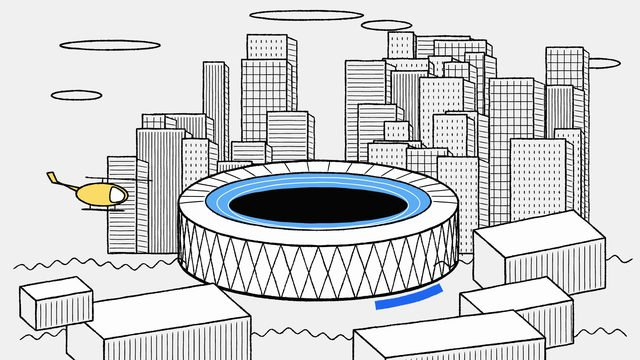
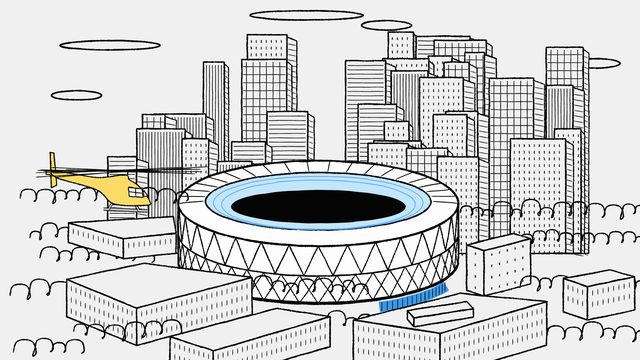
feat: 도시 설정 샷의 헬리콥터·전경·경기장 외벽을 원본 형태로 다시 그림 (#13)
- 헬리콥터: 타원 몸통에 선 꼬리이던 것을 꼬리 붐과 객실이 한 덩어리인 실루엣, 꼬리 날개와 수평 안정판, 네 칸 옆창, 회색 스키드, 그림마다 다시 뽑는 부채꼴 로터 선으로 바꿨다. 원본 객실에 그려진 브랜드 표식과 글자는 넣지 않았다(공개 저장소).
- 전경: 한 가지 기울기의 상자 다섯 개를 원본 배치의 블록 일곱 개로 바꿨다. 지붕 네 점을 그대로 받는 block()으로 일반화했다: 기존 roof()는 기울기가 고정이라 원본의 지붕 모양을 넣을 수 없었다.
- 나무: 물결선 세 줄을 건물 사이를 메우는 둥근 수관 줄 열네 개로 바꿨다. 원본은 빈틈마다 나무로 메워 화면이 빽빽하다.
- 경기장 외벽을 위쪽 큰 지그재그와 아래쪽 X의 두 단으로 나누고, 관중석을 옅은 하늘색에 고리선으로, 발치의 띠를 로열블루에서 밝은 파랑으로 바꿨다. 로열블루는 스미어와 태그라인 전용이라는 STYLE.md 원칙과도 맞춘다.
- 뒤쪽 고층 건물은 그대로 시드 생성이다.

Claude-Session: https://claude.ai/code/session_01SxpfC35DvvVg9RbvPHCrGA

Changed region(s): [[0.0, 0.4278, 1.0, 1.0]]

diff --git a/IBM/scenes/establish/city-stadium-flyin.html b/IBM/scenes/establish/city-stadium-flyin.html
@@ -7,7 +7,7 @@
 <script src="../../kit/ink.js"></script>
 <script>
 /* 화면을 가득 채운 흑백 선화 도시 한가운데 경기장이 있고, 노란 헬리콥터 한 대가 왼쪽에서 크게 휘어 들어와 경기장 옆에 멈춰 뜬다. 전달하는 생각: 이제 벌어질 일의 장소를 한 장으로 알린다.
-   Motion notes: 1.9 s, the drawing never moves and is far denser than any other family: line widths 1.5-5 px mixed, windows and trusses as texture, almost no fills. Colour only in two places, the yellow craft and the blue seating band (plus one blue strip at the stadium's foot). The craft is the one moving thing, on twos: nothing for the first 0.33 s, then it crosses right in front of the lens 4x too large (the first drawing stretched 1.4x as a smear), shrinks away, stands on its nose for one drawing as it turns, and is hovering by 0.83 s; after that only the rotor line flips each drawing and the body drifts 1 px per drawing. Buildings are generated from a seed, so the skyline is a stand-in for the reference's hand-drawn city, not a copy of it. */
+   Motion notes: 1.9 s, the drawing never moves and is far denser than any other family: line widths 1.5-5 px mixed, windows and trusses as texture, almost no fills. Colour only in two places, the yellow craft and the pale blue seating (plus one bright strip at the stadium's foot). The craft is the one moving thing, on twos: nothing for the first 0.33 s, then it crosses right in front of the lens 4x too large (the first drawing stretched 1.4x as a smear), shrinks away, stands on its nose for one drawing as it turns, and is hovering by 0.83 s; after that only the rotor line flips each drawing and the body drifts 1 px per drawing. The towers are generated from a seed, so the skyline is a stand-in for the reference's hand-drawn city, not a copy of it; the stadium, the foreground blocks, the treetop rows and the craft follow the reference's layout and shapes. The craft's painted brand mark and lettering are left out. */
 const { lerp, rng, kf } = MG;
 const C = IB.C;
 
@@ -33,48 +33,85 @@ function tower(ctx, b) {
 }
 
 function stadium(ctx) {
-  const cx = 955, top = 610, bot = 770, rx = 420, ry = 128;
+  // a squat bowl: roof ring on top, an upper band of big zigzags and a lower band of crosses, one bright strip at its foot
+  const cx = 955, top = 610, mid = 700, bot = 780, rx = 420, ry = 128;
   const arc = (y, a0, a1, n = 26) => IB.ellipse(cx, y, rx, ry, n, a0, a1);
-  // wall: the lower halves of the roof ellipse and the foot ellipse, joined
   IB.ink(ctx, arc(top, 0, Math.PI).concat(arc(bot, Math.PI, 0)), { closed: true, fill: C.paper, w: 4, seed: 300 });
-  const up = arc(top, 0.08, Math.PI - 0.08, 22), lo = arc(bot + 4, 0.08, Math.PI - 0.08, 22);
-  for (let i = 0; i < up.length - 1; i++) { IB.ink(ctx, [up[i], lo[i + 1]], { w: 2.4, seed: 310 + i, smooth: false }); IB.ink(ctx, [up[i + 1], lo[i]], { w: 2.4, seed: 340 + i, smooth: false }); }
-  IB.ink(ctx, arc(bot + 30, 0.5, 1.15, 8), { w: 26, color: C.royal, seed: 301, taper: false });          // blue strip at the foot
-  IB.ink(ctx, arc(bot + 4, 0.02, Math.PI - 0.02), { w: 4, seed: 302 });
-  // roof ring, seating band, the dark bowl
-  IB.oval(ctx, cx, top, rx, ry, { fill: C.paper, w: 5, seed: 303, n: 30 });
-  IB.oval(ctx, cx, top - 6, 338, 86, { fill: C.blue, w: 3.5, seed: 304, n: 26 });
-  for (const k of [0.9, 0.8]) IB.oval(ctx, cx, top - 6 + (1 - k) * 60, 338 * k, 86 * k, { w: 2, color: C.paper, seed: 305 + k, n: 24 });
-  IB.oval(ctx, cx, top + 6, 268, 54, { fill: C.ink, w: 0, n: 24 });
+  const up = arc(top, 0.1, Math.PI - 0.1, 14), md = arc(mid, 0.1, Math.PI - 0.1, 14), md2 = arc(mid, 0.1, Math.PI - 0.1, 22), lo = arc(bot + 2, 0.1, Math.PI - 0.1, 22);
+  for (let i = 0; i < up.length - 1; i++) { const m = [(md[i][0] + md[i + 1][0]) / 2, (md[i][1] + md[i + 1][1]) / 2]; IB.ink(ctx, [up[i], m, up[i + 1]], { w: 2.6, seed: 310 + i, smooth: false }); }
+  for (let i = 0; i < md2.length - 1; i++) { IB.ink(ctx, [md2[i], lo[i + 1]], { w: 2.2, seed: 330 + i, smooth: false }); IB.ink(ctx, [md2[i + 1], lo[i]], { w: 2.2, seed: 360 + i, smooth: false }); }
+  IB.ink(ctx, arc(mid, 0.04, Math.PI - 0.04), { w: 3.2, seed: 301 });
+  IB.ink(ctx, arc(bot + 26, 0.42, 1.12, 8), { w: 30, color: '#3b98e6', seed: 302, taper: false, grain: 0 });
+  for (let i = 0; i < 16; i++) { const a = 0.44 + (i / 15) * 0.66; IB.seg(ctx, cx + Math.cos(a) * rx, bot + 12 + Math.sin(a) * ry, cx + Math.cos(a) * rx, bot + 40 + Math.sin(a) * ry, { w: 1.5, wob: 0, seed: 380 + i }); }
+  IB.ink(ctx, arc(bot + 4, 0.02, Math.PI - 0.02), { w: 4, seed: 303 });
+  // roof ring, pale seating with ring lines, the dark bowl
+  IB.oval(ctx, cx, top, rx, ry, { fill: C.paper, w: 5, seed: 304, n: 30 });
+  IB.oval(ctx, cx, top - 6, 338, 86, { fill: C.sky, w: 3.5, seed: 305, n: 26 });
+  for (const k of [0.93, 0.86]) IB.oval(ctx, cx, top - 6 + (1 - k) * 70, 338 * k, 86 * k, { w: 2, color: C.blue, seed: 306 + k, n: 24, grain: 0 });
+  IB.oval(ctx, cx, top + 10, 262, 50, { fill: C.ink, w: 0, n: 24 });
   for (let i = 0; i < 20; i++) { const a = Math.PI + (i / 19) * Math.PI, p = [cx + Math.cos(a) * rx, top + Math.sin(a) * ry], q = [cx + Math.cos(a) * 344, top - 6 + Math.sin(a) * 90]; IB.ink(ctx, [p, q], { w: 2, seed: 370 + i, smooth: false }); }
 }
 
-function foreground(ctx) {
-  const roof = (x, y, w, h, d, seed) => {
-    IB.ink(ctx, [[x, y], [x + w, y - d], [x + w + d * 1.6, y + d * 0.4], [x + d * 1.6, y + d * 1.4]], { closed: true, smooth: false, fill: C.paper, w: 3.5, seed });
-    IB.ink(ctx, [[x, y], [x + d * 1.6, y + d * 1.4], [x + d * 1.6, y + d * 1.4 + h], [x, y + h]], { closed: true, smooth: false, fill: C.bg, w: 3.5, seed: seed + 1 });
-    IB.ink(ctx, [[x + d * 1.6, y + d * 1.4], [x + w + d * 1.6, y + d * 0.4], [x + w + d * 1.6, y + d * 0.4 + h], [x + d * 1.6, y + d * 1.4 + h]], { closed: true, smooth: false, fill: C.bg, w: 3.5, seed: seed + 2 });
-    for (let k = 14; k < w; k += 16) IB.seg(ctx, x + d * 1.6 + k, y + d * 1.4 - k * (d / w) + 12, x + d * 1.6 + k, y + d * 1.4 - k * (d / w) + h - 6, { w: 1.6, wob: 0.3, seed: seed + k });
-  };
-  const trees = (x0, x1, y, seed) => { const pts = []; for (let x = x0, i = 0; x <= x1; x += 26, i++) pts.push([x, y + (i % 2 ? -16 : 0) + Math.sin(x * 0.02) * 10]); IB.ink(ctx, pts, { w: 2.6, seed }); };
-  trees(40, 560, 800, 500); trees(1300, 1900, 790, 501); trees(60, 1900, 1010, 502);
-  roof(1420, 690, 300, 150, 60, 520);
-  roof(1380, 880, 260, 130, 50, 530);
-  roof(200, 920, 440, 140, 70, 540);
-  roof(1060, 990, 480, 120, 60, 550);
-  roof(60, 860, 170, 90, 30, 560);
+/* A row of treetops: a run of overlapping bumps with a curl at each join, the way the reference fills every gap between buildings. */
+function trees(ctx, x0, x1, y, seed, r0 = 22) {
+  const r = rng(seed), pts = [];
+  let x = x0;
+  while (x < x1) {
+    const rad = r0 * (0.7 + r() * 0.7), dy = (r() - 0.5) * r0 * 0.8;
+    pts.push([x, y + dy], [x + rad * 0.25, y + dy - rad * 0.9], [x + rad, y + dy - rad * 1.15], [x + rad * 1.75, y + dy - rad * 0.9], [x + rad * 2, y + dy], [x + rad * 1.7, y + dy + rad * 0.3]);
+    x += rad * 1.9;
+  }
+  IB.ink(ctx, pts, { w: 2.8, seed });
 }
 
-function heli(ctx, x, y, s, rot, facing, flip) {
+/* A flat-roofed block seen from above: the roof is the four points given (back-left, back-right, front-right, front-left), the two near faces drop h px and carry short vertical window dashes. */
+function block(ctx, q, h, seed, dots = false) {
+  const down = (p) => [p[0], p[1] + h];
+  IB.ink(ctx, [q[0], q[3], down(q[3]), down(q[0])], { closed: true, smooth: false, fill: C.bg, w: 3.2, seed: seed + 1 });
+  IB.ink(ctx, [q[3], q[2], down(q[2]), down(q[3])], { closed: true, smooth: false, fill: C.bg, w: 3.2, seed: seed + 2 });
+  IB.ink(ctx, q, { closed: true, smooth: false, fill: C.bg, w: 3.2, seed });
+  for (const [a, b] of [[q[0], q[3]], [q[3], q[2]]]) {
+    const len = Math.hypot(b[0] - a[0], b[1] - a[1]), n = Math.floor(len / (dots ? 22 : 15));
+    for (let i = 1; i < n; i++) for (let row = 0; row < Math.floor(h / 34); row++) {
+      const u = i / n, x = lerp(a[0], b[0], u), y = lerp(a[1], b[1], u) + 14 + row * 34;
+      IB.seg(ctx, x, y, x, y + (dots ? 7 : 16), { w: dots ? 3 : 1.6, wob: 0, seed: seed + i * 7 + row });
+    }
+  }
+}
+
+function foreground(ctx) {
+  trees(ctx, 60, 540, 600, 500); trees(ctx, 1380, 1920, 640, 501); trees(ctx, 1560, 1920, 720, 502, 18);
+  block(ctx, [[1400, 735], [1540, 700], [1592, 716], [1452, 752]], 136, 510, true);
+  trees(ctx, 90, 300, 706, 503); trees(ctx, 120, 420, 770, 504);
+  block(ctx, [[205, 668], [520, 650], [528, 700], [370, 716]], 60, 520);
+  trees(ctx, 30, 230, 880, 505, 26); trees(ctx, 760, 1100, 868, 506); trees(ctx, 1560, 1920, 860, 507);
+  block(ctx, [[1690, 835], [1830, 810], [1904, 830], [1762, 860]], 100, 530);
+  block(ctx, [[200, 838], [432, 790], [756, 832], [410, 924]], 112, 540);
+  trees(ctx, 220, 520, 1004, 508, 24); trees(ctx, 980, 1100, 968, 509);
+  block(ctx, [[1060, 960], [1380, 880], [1640, 905], [1320, 1000]], 130, 550);
+  block(ctx, [[1222, 932], [1400, 905], [1420, 926], [1242, 954]], 26, 560);
+  block(ctx, [[510, 1010], [830, 925], [990, 950], [640, 1052]], 90, 570);
+  trees(ctx, 1640, 1920, 1010, 510, 24); trees(ctx, 40, 240, 1050, 511, 26);
+}
+
+/* The one coloured thing in the shot. Drawn nose-right about the cabin's centre; `facing` -1 flips it. The reference paints a brand mark and a word on the cabin: left out. */
+function heli(ctx, x, y, s, rot, facing, d) {
   ctx.save();
   ctx.translate(x, y); ctx.rotate(rot); ctx.scale(s * facing, s);
-  IB.ink(ctx, [[-60, 46], [70, 46]], { w: 4, seed: 600 });
-  for (const lx of [-34, 40]) IB.seg(ctx, lx, 30, lx, 46, { w: 3, seed: 601 + lx });
-  IB.ink(ctx, [[-70, -18], [-150, -30], [-168, -58], [-150, -62], [-136, -34], [-66, -2]], { closed: true, smooth: false, fill: C.yellow, w: 3.5, seed: 602 });   // tail boom and fin
-  IB.oval(ctx, 0, 0, 78, 34, { fill: C.yellow, w: 3.5, seed: 603, n: 12 });
-  IB.ink(ctx, [[30, -24], [66, -6], [60, 16], [26, 18]], { closed: true, fill: C.paper, w: 3, seed: 604 });   // windscreen
-  IB.seg(ctx, 0, -34, 0, -48, { w: 4, seed: 605 });
-  IB.ink(ctx, [[-150 * (flip ? 1 : 0.35), -50], [150 * (flip ? 0.4 : 1), -48]], { w: 2.6, seed: 606 + flip });
+  const lw = 2.4 / Math.sqrt(s);
+  IB.tube(ctx, [[-55, 52], [76, 58]], { w: 9, edge: 2, fill: '#b9b9b9', seed: 600 });                      // skid
+  IB.tube(ctx, [[-30, 36], [-40, 52]], { w: 7, edge: 1.8, fill: '#b9b9b9', seed: 601 });
+  IB.tube(ctx, [[40, 38], [50, 56]], { w: 7, edge: 1.8, fill: '#b9b9b9', seed: 602 });
+  IB.ink(ctx, [[-216, -118], [-204, -116], [-196, -20], [-212, -12]], { closed: true, smooth: false, fill: C.yellow, w: lw, seed: 603 });      // tail fin
+  IB.ink(ctx, [[-228, -64], [-186, -58], [-186, -49], [-228, -52]], { closed: true, smooth: false, fill: C.yellow, w: lw, seed: 604 });        // stabiliser
+  IB.ink(ctx, [[-198, -61], [-75, -43], [10, -50], [22, -36], [50, -17], [83, 27], [74, 41], [-25, 36], [-75, -5], [-198, -43]], { closed: true, fill: C.yellow, w: lw, seed: 605 });   // boom and cabin in one shape
+  IB.ink(ctx, [[19, -13], [60, -9], [63, 17], [22, 14]], { closed: true, smooth: false, fill: C.paper, w: lw, seed: 606 });                    // side window, four panes
+  IB.seg(ctx, 40, -11, 42, 15, { w: lw * 0.8, seed: 607 }); IB.seg(ctx, 20, 0, 61, 4, { w: lw * 0.8, seed: 608 });
+  IB.ink(ctx, [[65, -5], [77, 12], [67, 15]], { closed: true, smooth: false, fill: C.paper, w: lw * 0.8, seed: 609 });
+  IB.seg(ctx, 17, -50, 17, -60, { w: lw * 1.4, seed: 610 });
+  // rotor: a fan of thin straight strokes through the mast, re-rolled on every drawing
+  const r = rng(700 + d);
+  for (let i = 0; i < 9; i++) { const l = 170 + r() * 110, k = (r() - 0.5) * 0.16; IB.seg(ctx, 17 - l, -62 - l * k + (r() - 0.5) * 14, 17 + l * (0.5 + r() * 0.5), -62 + l * k * 0.6 + (r() - 0.5) * 14, { w: 1.6 / Math.sqrt(s), wob: 0, seed: 710 + i + d * 9 }); }
   ctx.restore();
 }
 
@@ -93,9 +130,9 @@ MG.scene({
     const f = IB.frame(t), d = Math.floor((f - 8) / 2);
     if (d >= 0) {
       // it passes right in front of the lens heading left, shrinks away, and has turned to face right by the time it hovers
-      const IN = [[1500, 520, 4.2, 0.3, -1.4], [1150, 640, 3.6, 0.2, -1], [760, 640, 2.4, 0.1, -1], [400, 560, 1.7, -1.4, -1], [360, 590, 1.3, -0.5, 1], [310, 588, 1.1, 0.1, 1], [300, 584, 1.0, 0.04, 1]];
+      const IN = [[1560, 520, 4.2, 0.3, -1.4], [1210, 640, 3.6, 0.2, -1], [820, 640, 2.4, 0.1, -1], [460, 560, 1.7, -1.4, -1], [420, 588, 1.3, -0.5, 1], [370, 580, 1.1, 0.1, 1], [360, 575, 1.0, 0, 1]];
       const k = IN[Math.min(d, IN.length - 1)];
-      heli(ctx, k[0] + Math.max(0, d - 6), k[1], k[2], k[3], k[4], d % 2);
+      heli(ctx, k[0] + Math.max(0, d - 6), k[1], k[2], k[3], k[4], d);
     }
   },
 });

diff --git a/IBM/README.md b/IBM/README.md
@@ -28,4 +28,4 @@ ink.js   팔레트(IB.C), 붓펜 선과 채움(IB.ink, IB.box, IB.oval, IB.tube)
 
 - **출처:** 원본은 IBM의 광고 스팟이다. 영상 파일과 거기서 뽑은 프레임은 저장소에 넣지 않았다(`.gitignore`). 모든 그림은 코드로 그린 것이다.
 - **바꾼 것:** 광고 카피와 태그라인은 같은 줄 수의 한국어 자리 표시 문구로, 로고는 같은 크기에 `LOGO`라고만 적은 자리 표시 상자로, 엔드카드에 내려앉는 벌은 줄무늬 없는 날벌레로 바꿨다. 화면 속 간판과 포스터 글자는 옮기지 않았다. 글꼴은 원본의 IBM Plex Sans 대신 공용 Pretendard 300을 쓰고, 글자 높이·줄 간격·여백은 원본 수치에 맞췄다.
-- **충실도:** 구도, 크기, 컷과 비트의 시각, 카피와 카메라의 움직임은 원본 프레임에서 잰 값이다. 그림은 다르다: 원본은 프레임마다 손으로 그린 셀 애니메이션이고, 여기서는 관절 몇 개짜리 리그와 도형으로 단순화했다. `spot/folder-meets-document`와 `endcard/flyby-dot-settle`은 원본과 가깝고, 사람이 나오는 장면(`spot/tandem-riders-join`, `spot/dark-eyes-reveal`, `copy/copy-cards-flashlight`, `insert/mesh-eyes-whip`)은 포즈 수와 얼굴·옷의 세부가 원본보다 적다. `spot/tandem-riders-join`의 인물은 원본에서 읽은 관절 위치에 옷 실루엣과 옆얼굴을 입힌 리그라 실루엣은 원본과 대응하지만, 표정과 옷 주름, 사람마다 다른 자세는 없다. `establish/city-stadium-flyin`의 도시는 시드로 생성한 것이라 건물 배치가 원본과 다르다. 인물의 전신 연기 샷(카탈로그의 `act`)은 재현하지 않았다.
+- **충실도:** 구도, 크기, 컷과 비트의 시각, 카피와 카메라의 움직임은 원본 프레임에서 잰 값이다. 그림은 다르다: 원본은 프레임마다 손으로 그린 셀 애니메이션이고, 여기서는 관절 몇 개짜리 리그와 도형으로 단순화했다. `spot/folder-meets-document`와 `endcard/flyby-dot-settle`은 원본과 가깝고, 사람이 나오는 장면(`spot/tandem-riders-join`, `spot/dark-eyes-reveal`, `copy/copy-cards-flashlight`, `insert/mesh-eyes-whip`)은 포즈 수와 얼굴·옷의 세부가 원본보다 적다. `spot/tandem-riders-join`의 인물은 원본에서 읽은 관절 위치에 옷 실루엣과 옆얼굴을 입힌 리그라 실루엣은 원본과 대응하지만, 표정과 옷 주름, 사람마다 다른 자세는 없다. `establish/city-stadium-flyin`은 경기장, 전경 건물, 나무 줄, 헬리콥터가 원본의 배치와 형태를 따르지만 뒤쪽 고층 건물은 시드로 생성한 것이라 원본과 다르고, 헬리콥터 옆면의 브랜드 표식과 글자는 뺐다. 인물의 전신 연기 샷(카탈로그의 `act`)은 재현하지 않았다.
